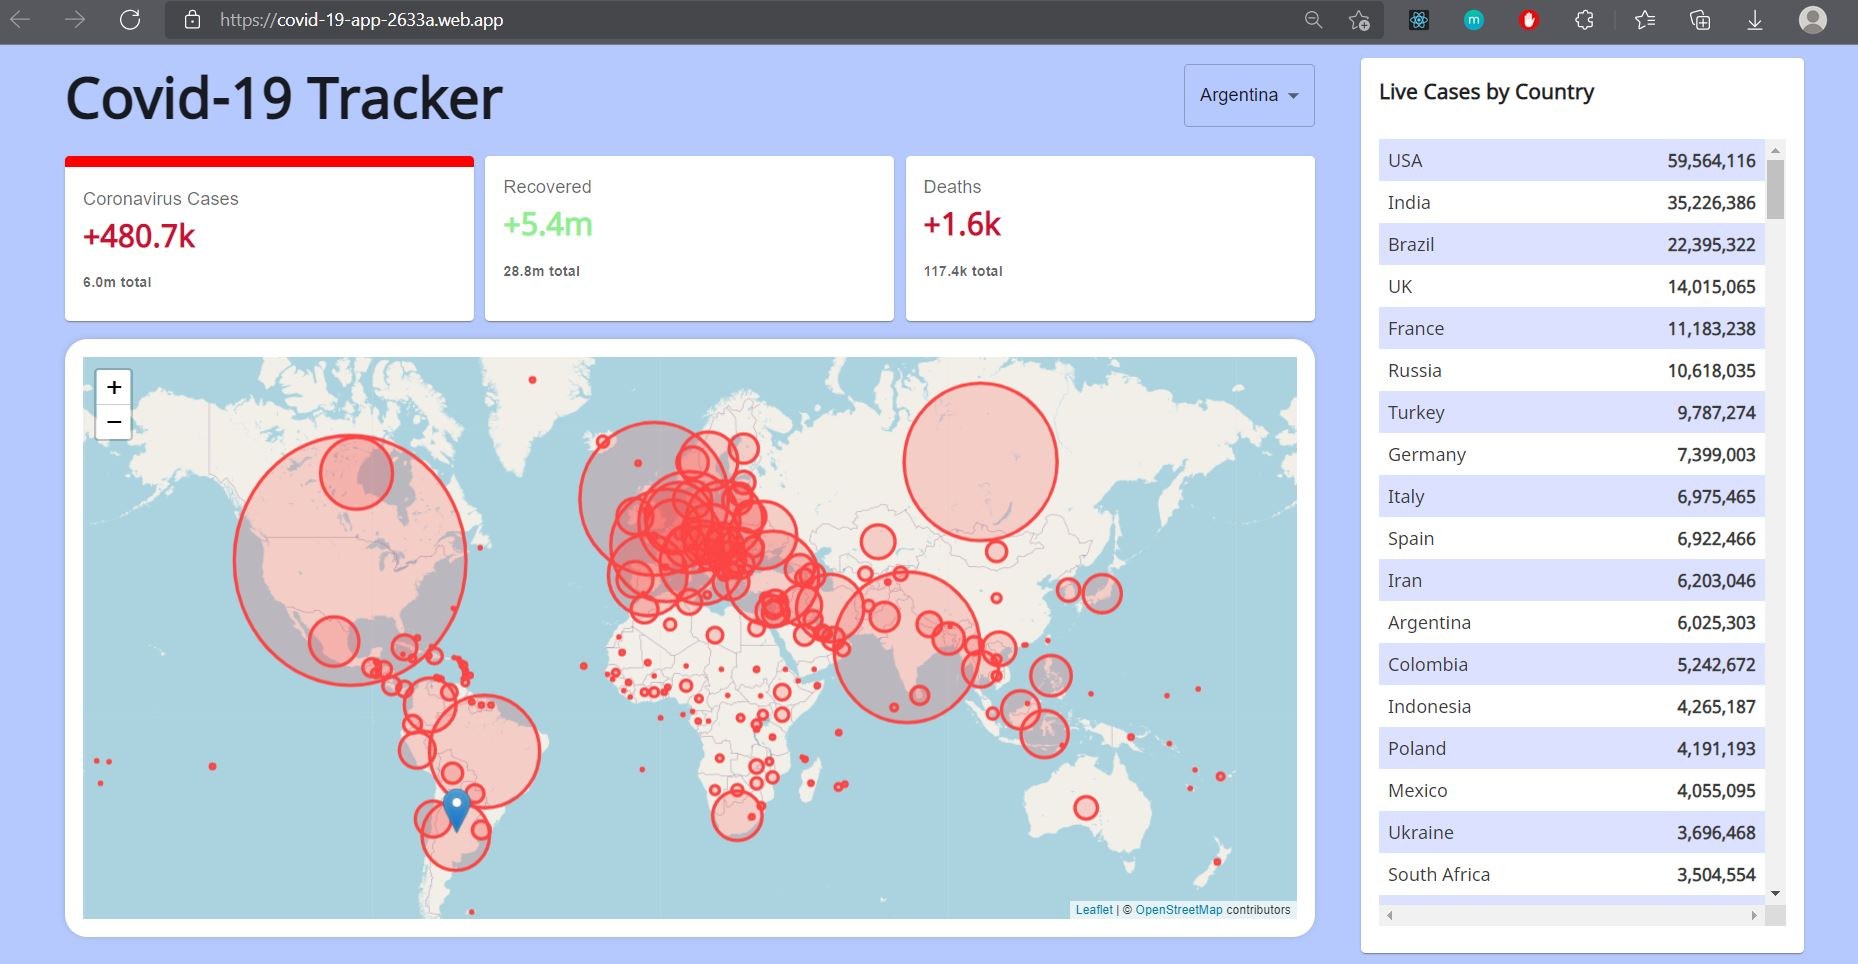
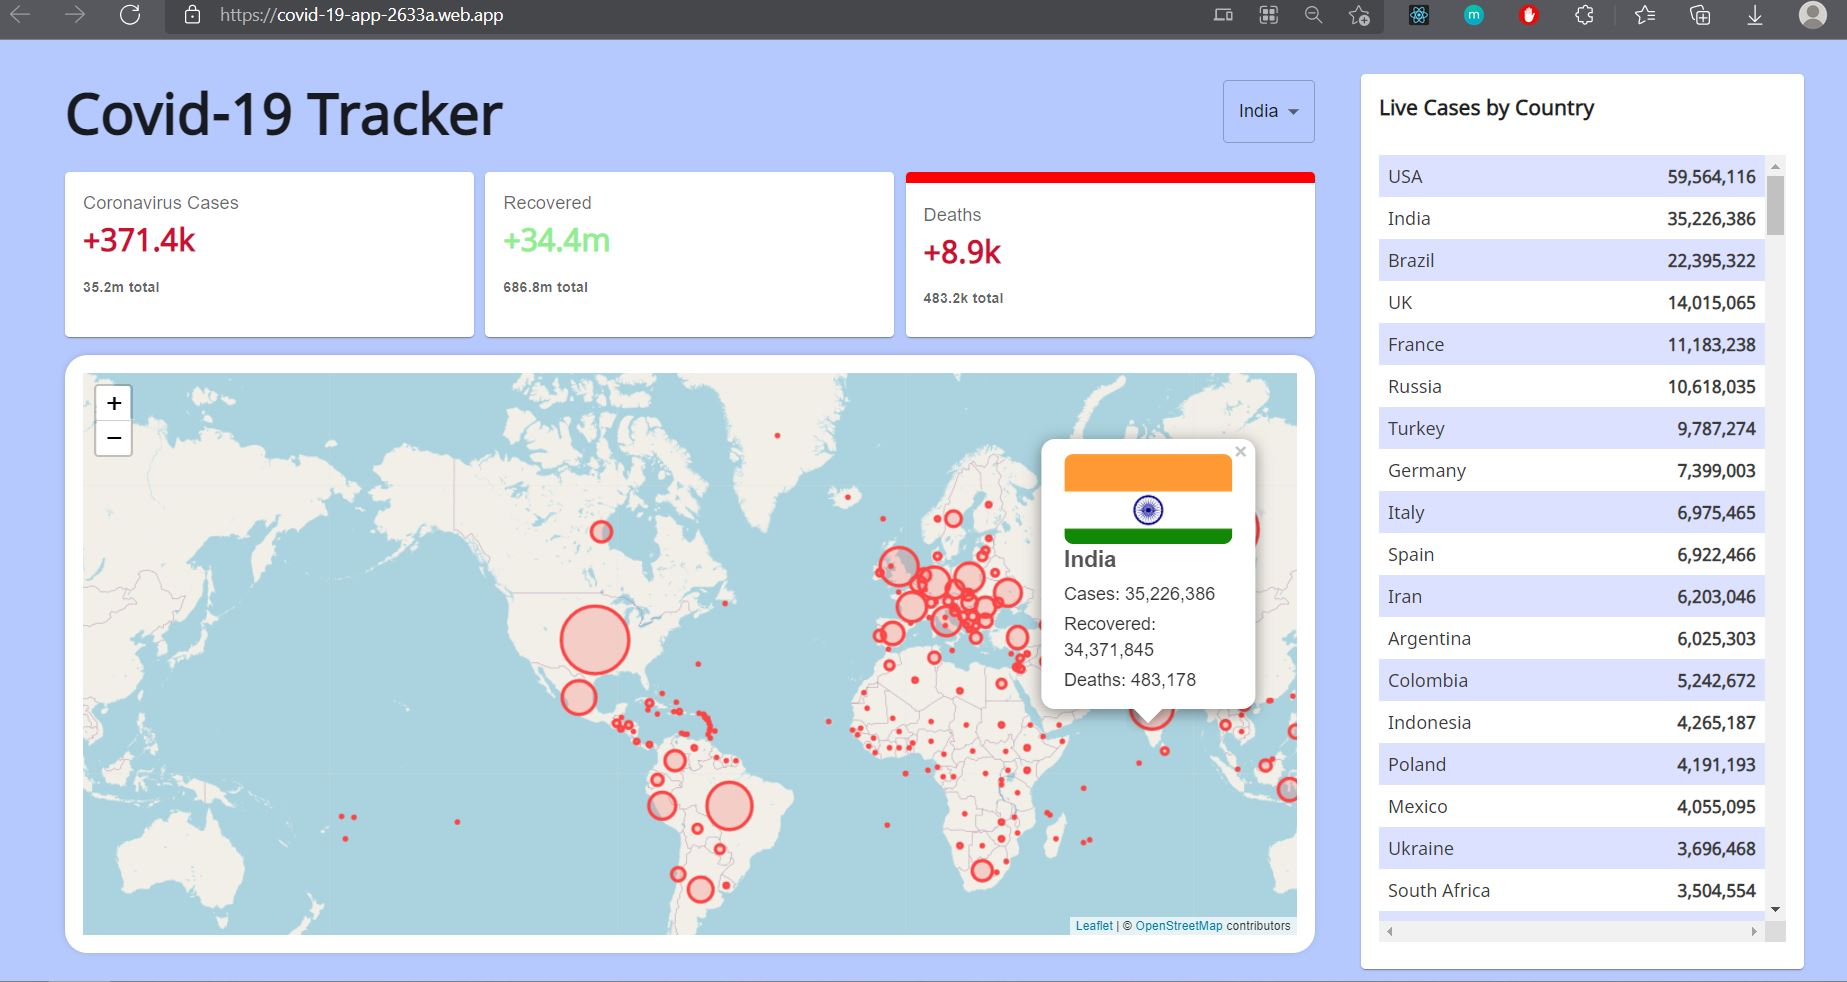
Changed ss

diff --git a/README.md b/README.md
@@ -1,5 +1,5 @@
 # Covid Dashboard📊
-<h3>This is a React based dashboard to showcase live COVID-19 infected cases.</h3>
+<h3>This is a React based dashboard to showcase live worldwide and country-specific COVID-19 infected cases.</h3>
 
 ![](https://github.com/Aishanipach/Covid-dashboard/blob/newtest/Firebase_deployed.JPG)
 
